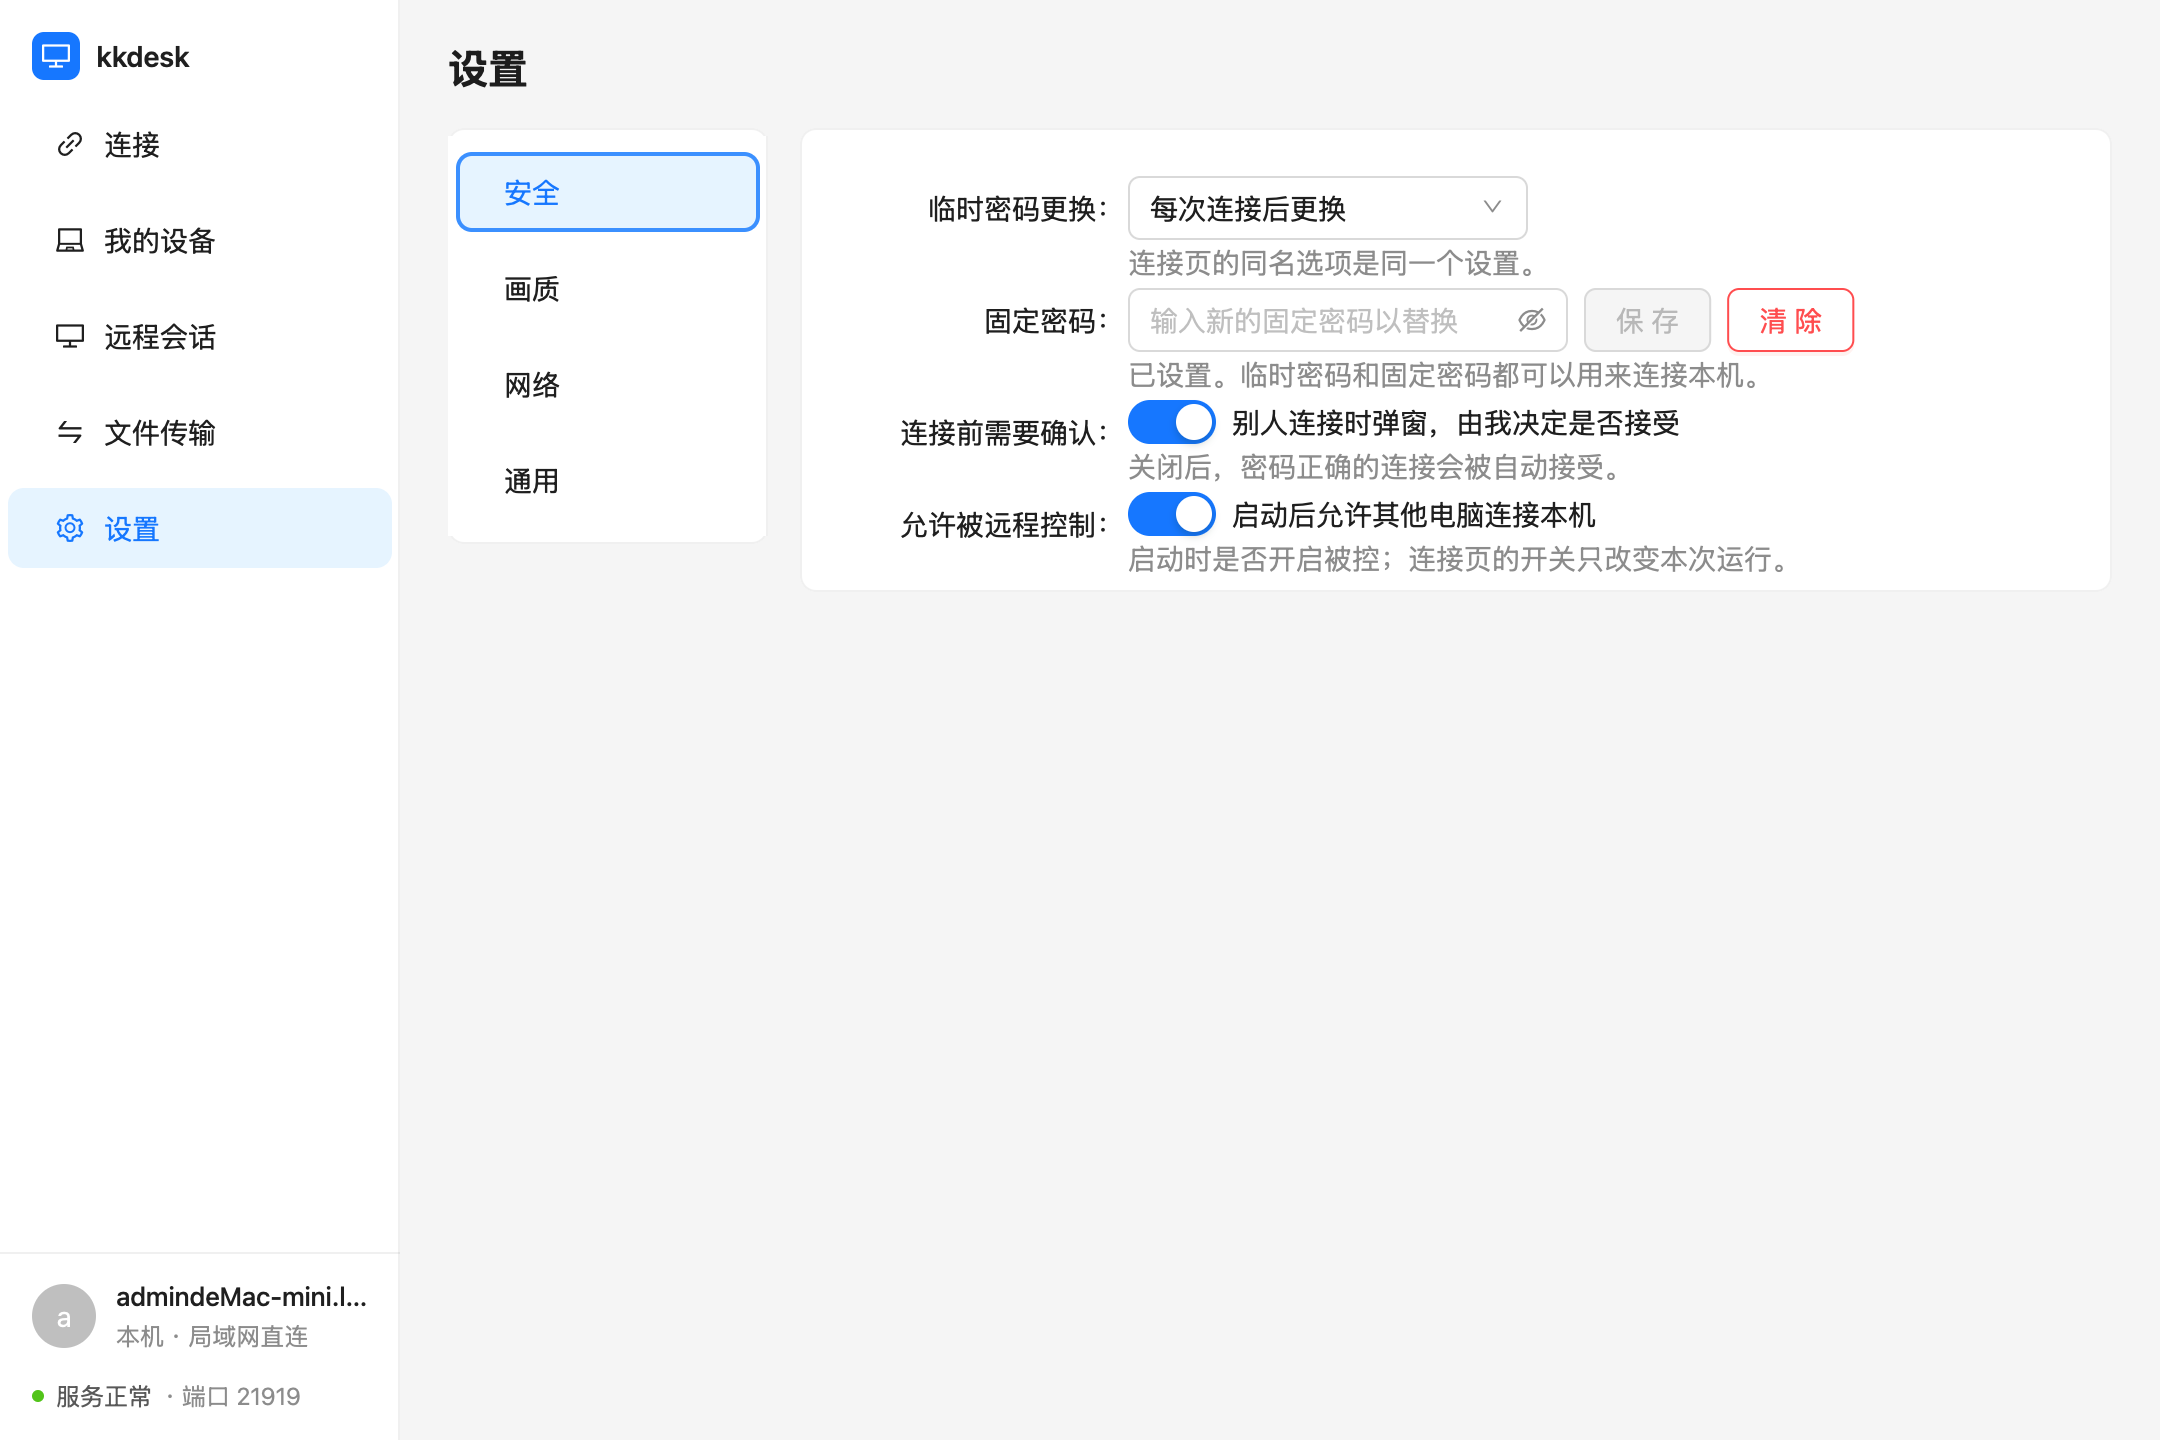
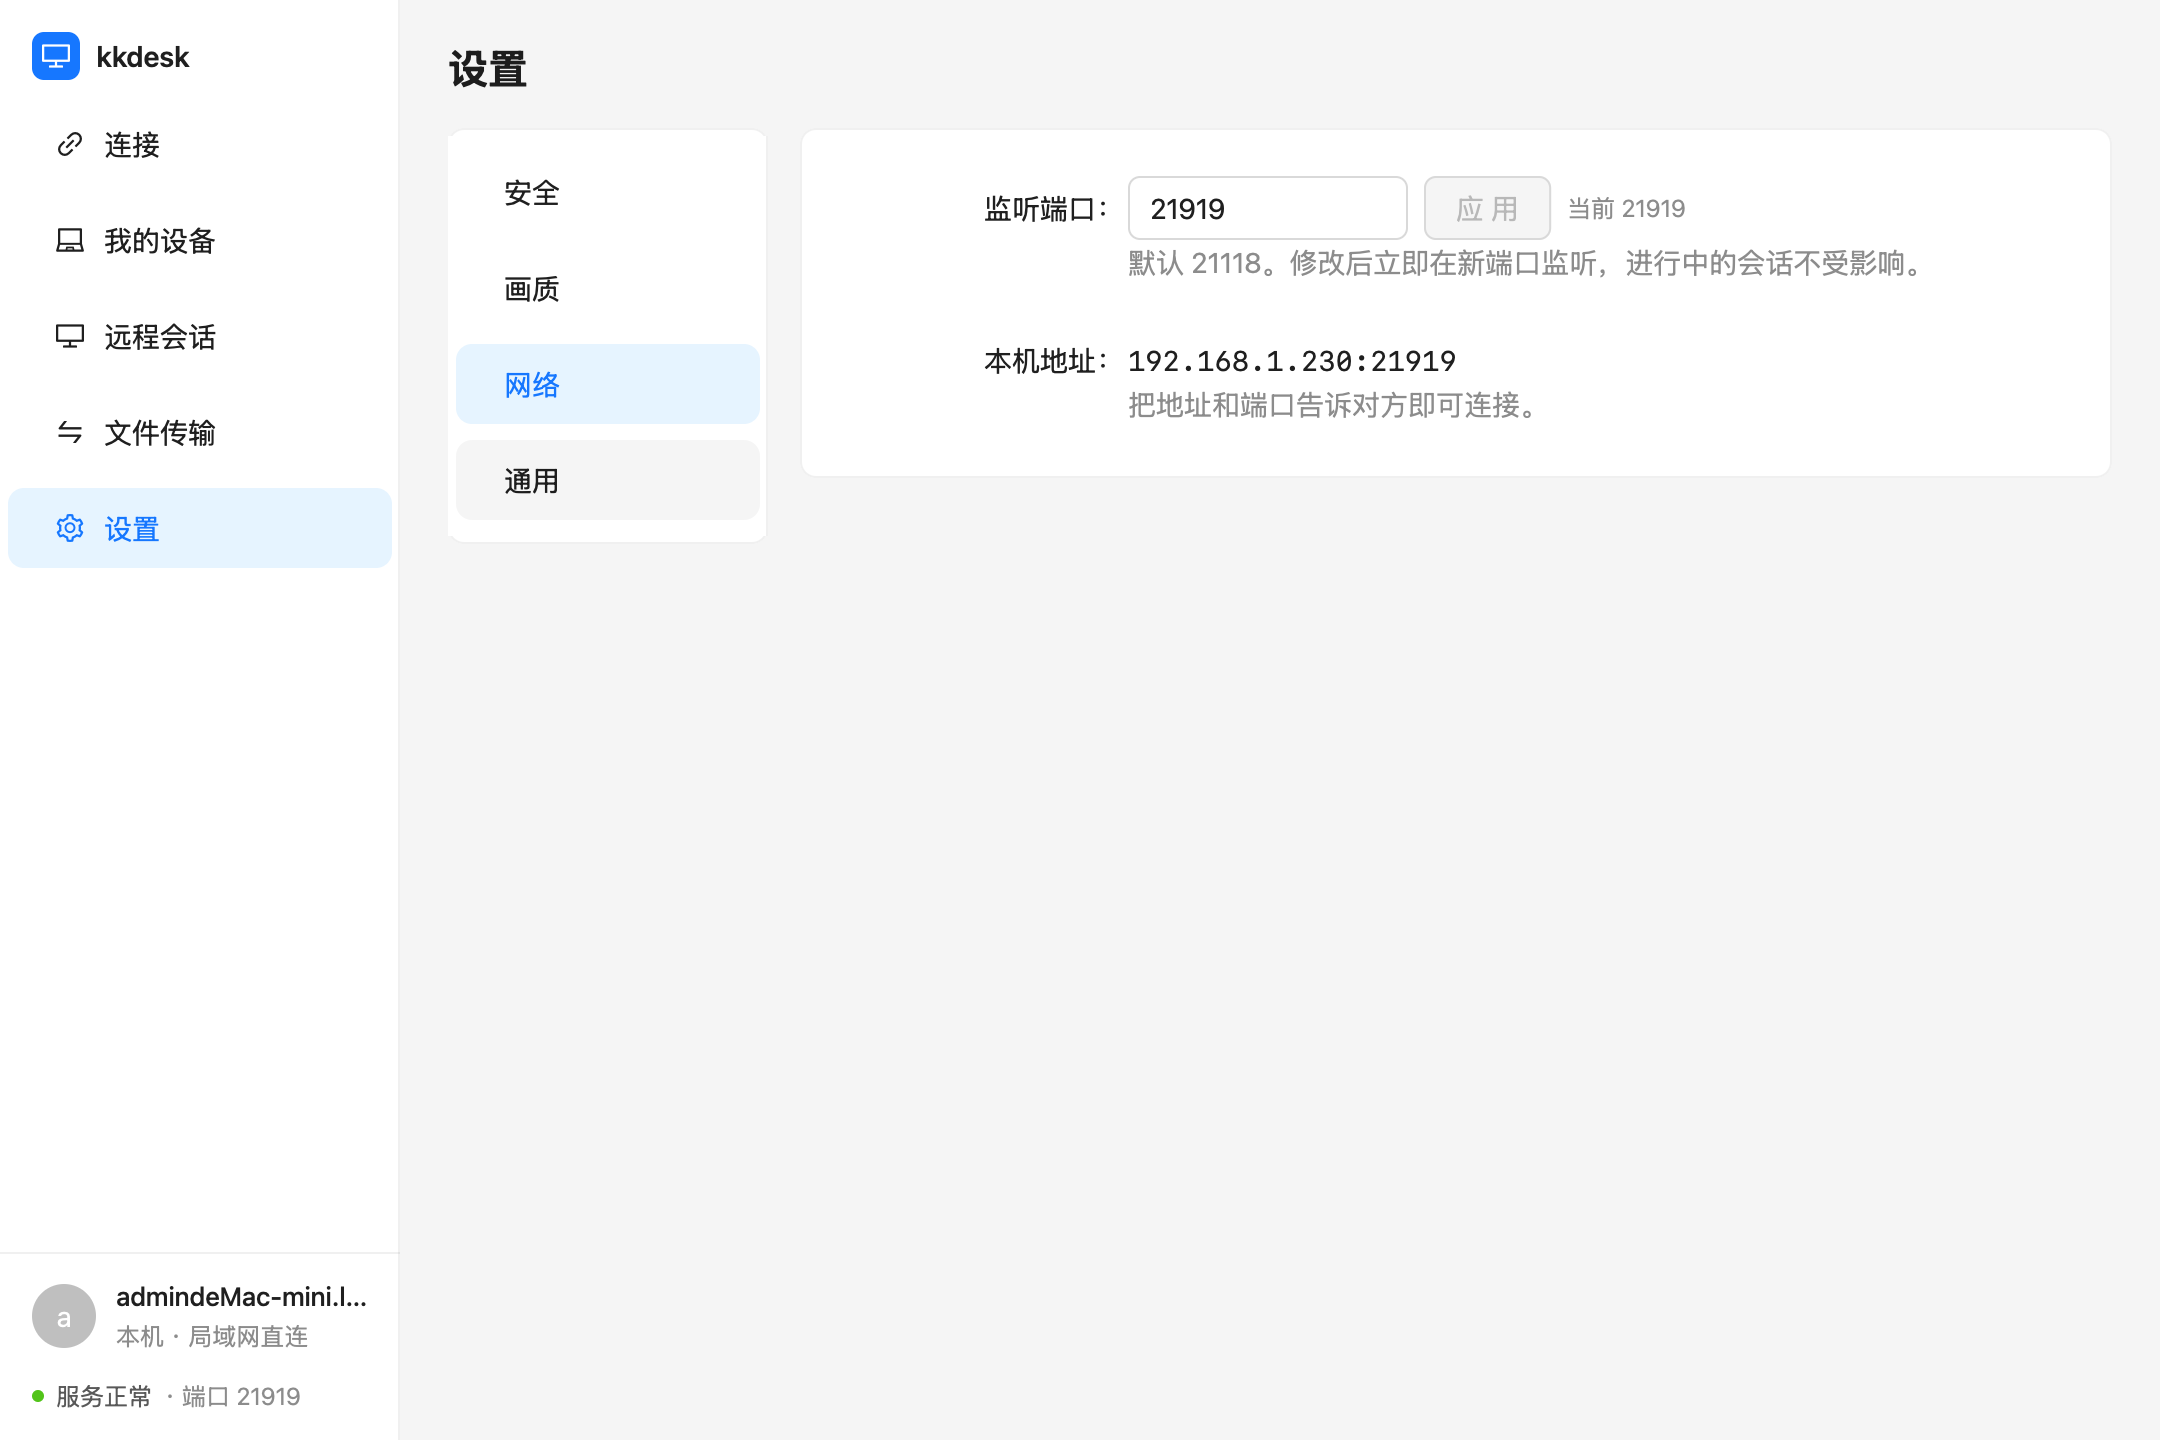
fix: move off a port Windows reserves; sidebar shows trouble, not off; roomier settings
- host: a listen refused with WSAEACCES (10013, port inside a Hyper-V/WSL/
  Docker reserved range) or EACCES tries the next 20 ports and says which
  one it uses; the shown port is the one actually listening
- sidebar: a wanted-but-failing host shows 需要处理 instead of 未开启被控
- settings: 20 pt between form items

Changed region(s): [[0.4032, 0.125, 0.8995, 0.4062], [0.1861, 0.0938, 0.3722, 0.1875], [0.1861, 0.2188, 0.3722, 0.3125]]

diff --git a/internal/app/host.go b/internal/app/host.go
@@ -15,6 +15,7 @@ import (
 	"net"
 	"os"
 	"path/filepath"
+	"strconv"
 	"sync"
 	"sync/atomic"
 	"syscall"
@@ -371,6 +372,11 @@ func (h *Host) State() HostState {
 	if tcp, err := net.ResolveTCPAddr("tcp", h.cfg.Addr); err == nil && tcp.Port != 0 {
 		s.Port = tcp.Port
 	}
+	if h.ln != nil {
+		if tcp, ok := h.ln.Addr().(*net.TCPAddr); ok && tcp.Port != 0 {
+			s.Port = tcp.Port // the port actually in use (it can differ, see startLocked)
+		}
+	}
 	if h.peer != nil {
 		s.Peer = h.peer.RemoteAddr()
 		s.Since = h.since
@@ -406,8 +412,37 @@ func (h *Host) SetEnabled(on bool) error {
 // tests).
 var listenRetryEvery = time.Second
 
+// listen opens the signaling listener (a variable for tests).
+var listen = session.Listen
+
+// altPorts is how many ports after the configured one are tried when the
+// system refuses it.
+const altPorts = 20
+
 func (h *Host) startLocked() error {
-	ln, err := session.Listen(h.cfg.Addr, h.password, h.cfg.Fixed)
+	ln, err := listen(h.cfg.Addr, h.password, h.cfg.Fixed)
+	if err != nil && addrDenied(err) {
+		// Windows reserves port ranges for Hyper-V, WSL and Docker
+		// (netsh interface ipv4 show excludedportrange protocol=tcp);
+		// binding inside one fails with WSAEACCES. Use the next free port.
+		host, port := splitPort(h.cfg.Addr)
+		for i := 1; i <= altPorts && port > 0 && port+i <= 65535; i++ {
+			alt := net.JoinHostPort(host, strconv.Itoa(port+i))
+			l2, err2 := listen(alt, h.password, h.cfg.Fixed)
+			if err2 == nil {
+				ln, err = l2, nil
+				h.notice = fmt.Sprintf("端口 %d 被系统保留（常见于 Hyper-V、WSL、Docker），已改用 %d", port, port+i)
+				break
+			}
+			if !addrDenied(err2) && !addrInUse(err2) {
+				break
+			}
+		}
+		if err != nil {
+			h.errMsg = fmt.Sprintf("端口 %d 及之后 %d 个端口都被系统保留或占用，请在「设置 › 网络」里换一个端口", port, altPorts)
+			return err
+		}
+	}
 	if err != nil {
 		if addrInUse(err) {
 			// The port is often held by a process that is exiting (a hot
@@ -451,6 +486,27 @@ func addrInUse(err error) bool {
 	}
 	var errno syscall.Errno
 	return errors.As(err, &errno) && errno == 10048 // WSAEADDRINUSE
+}
+
+// addrDenied reports a listen error caused by the system refusing the port
+// (Windows WSAEACCES 10013 inside a reserved range; EACCES elsewhere).
+func addrDenied(err error) bool {
+	if errors.Is(err, syscall.EACCES) {
+		return true
+	}
+	var errno syscall.Errno
+	return errors.As(err, &errno) && errno == 10013 // WSAEACCES
+}
+
+// splitPort splits a listen address such as ":21118"; port is 0 when it
+// cannot be parsed.
+func splitPort(addr string) (host string, port int) {
+	h, p, err := net.SplitHostPort(addr)
+	if err != nil {
+		return "", 0
+	}
+	n, _ := strconv.Atoi(p)
+	return h, n
 }
 
 // portOf returns the port of a listen address such as ":21118".

diff --git a/internal/app/host_denied_test.go b/internal/app/host_denied_test.go
@@ -1,0 +1,60 @@
+package app
+
+import (
+	"net"
+	"os"
+	"strconv"
+	"strings"
+	"syscall"
+	"testing"
+
+	"github.com/tangoui/kkdesk/internal/session"
+)
+
+// Windows refuses ports inside ranges reserved for Hyper-V, WSL and Docker
+// with WSAEACCES (10013): the host moves to the next free port and says so.
+func TestHostMovesOffAReservedPort(t *testing.T) {
+	probe, err := net.Listen("tcp", "127.0.0.1:0")
+	if err != nil {
+		t.Fatal(err)
+	}
+	base := probe.Addr().(*net.TCPAddr).Port
+	probe.Close()
+	reserved := "127.0.0.1:" + strconv.Itoa(base)
+	old := listen
+	listen = func(addr string, pw ...string) (*session.Host, error) {
+		if addr == reserved {
+			return nil, &net.OpError{Op: "listen", Net: "tcp", Err: os.NewSyscallError("bind", syscall.Errno(10013))}
+		}
+		return session.Listen(addr, pw...)
+	}
+	defer func() { listen = old }()
+
+	h := NewHost(HostConfig{Addr: reserved, Password: "123456"}, nil)
+	defer h.Close()
+	if err := h.SetEnabled(true); err != nil {
+		t.Fatalf("SetEnabled = %v, want a fallback port", err)
+	}
+	s := h.State()
+	if s.Err != "" || s.Phase != HostListening {
+		t.Fatalf("state: %+v", s)
+	}
+	if s.Port <= base || s.Port > base+altPorts {
+		t.Fatalf("port %d, want one of the %d after %d", s.Port, altPorts, base)
+	}
+	if !strings.Contains(s.Notice, "已改用 "+strconv.Itoa(s.Port)) {
+		t.Fatalf("notice %q does not name the new port %d", s.Notice, s.Port)
+	}
+}
+
+func TestAddrDenied(t *testing.T) {
+	if !addrDenied(&net.OpError{Err: os.NewSyscallError("bind", syscall.Errno(10013))}) {
+		t.Error("WSAEACCES not recognized")
+	}
+	if !addrDenied(&net.OpError{Err: os.NewSyscallError("bind", syscall.EACCES)}) {
+		t.Error("EACCES not recognized")
+	}
+	if addrDenied(&net.OpError{Err: os.NewSyscallError("bind", syscall.EADDRINUSE)}) {
+		t.Error("EADDRINUSE taken for denied")
+	}
+}

diff --git a/internal/ui/main_window.go b/internal/ui/main_window.go
@@ -214,10 +214,12 @@ func (m *Main) sidebar(c *ui.Context, hs app.HostState) {
 			ui.Row(c, func() {
 				col, msg, sub := th.Success.Base, "服务正常", "端口 "+itoa(hs.Port)
 				switch {
-				case hs.Phase == app.HostOff:
-					col, msg, sub = th.TextQuaternary, "未开启被控", ""
 				case hs.Err != "":
-					col, msg, sub = th.Warning.Base, "需要处理", ""
+					// Wanted on but not listening (a refused or busy port):
+					// not "off", something needs attention.
+					col, msg, sub = th.Warning.Base, "需要处理", "见连接页"
+				case !hs.Enabled && hs.Phase != app.HostActive:
+					col, msg, sub = th.TextQuaternary, "未开启被控", ""
 				case hs.Phase == app.HostActive && hs.FilesOnly:
 					col, msg, sub = th.Error.Base, "正在传输文件", ""
 				case hs.Phase == app.HostActive:

diff --git a/internal/ui/settings_page.go b/internal/ui/settings_page.go
@@ -102,7 +102,7 @@ func (m *Main) settingsPage(c *ui.Context, hs app.HostState) {
 			ui.Menu(c, settingsNav, &s.tab).Show()
 		}, layout.W(160), layout.Padding(insets(4, 0, 4, 0)))
 		panel(c, func() {
-			f := ui.Form(c).LabelWidth(140)
+			f := ui.Form(c).LabelWidth(140).Layout(layout.Gap(20)) // room between items, as Ant forms have
 			f.Body(func() {
 				switch s.tab {
 				case "quality":
@@ -115,7 +115,7 @@ func (m *Main) settingsPage(c *ui.Context, hs app.HostState) {
 					m.securitySettings(c, f, hs)
 				}
 			})
-		}, layout.Grow(1), layout.MinW(0), layout.Padding(insets(24, 24, 4, 24)))
+		}, layout.Grow(1), layout.MinW(0), layout.Padding(insets(24, 24, 24, 24)))
 	}, layout.Gap(16), layout.AlignItems(layout.AlignStart))
 }
 
